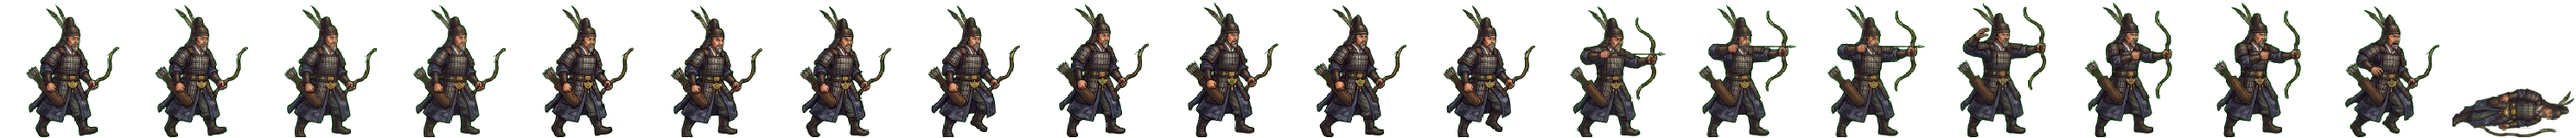
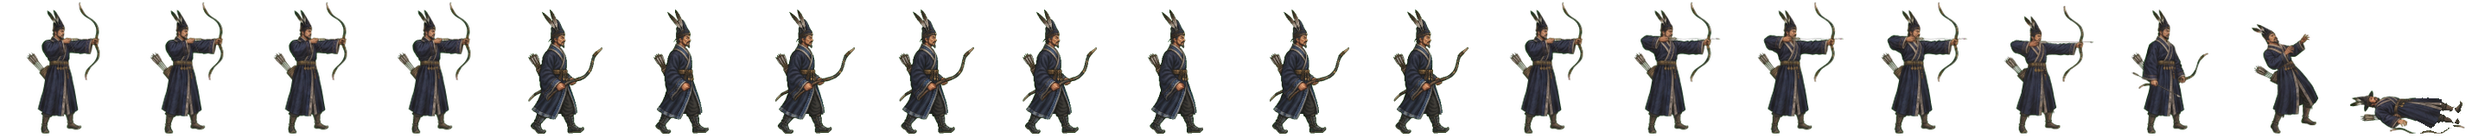
전투 띠 다시: 송양 초상대로 (깃털 꽂은 검은 관·남색 긴 두루마기 · 투구·갑옷을 벗김 · 활 당기기) (형 11-08)
Claude-Session: https://claude.ai/code/session_01TRiuNAG8xSjdmjCFpc8Rd5

Changed region(s): [[0.0, 0.0312, 1.0, 1.0]]

diff --git a/src/realm/data/art.ts b/src/realm/data/art.ts
@@ -485,7 +485,7 @@ export const GEN_ANIM: Readonly<Partial<Record<string, { ar: number; body: numbe
   eureum: { ar: 147 / 160, body: 0.907 }, // 11-04 제 띠 (u/0 · 마젠타 바탕 · 검은 관·염소수염·녹색 두루마기·가죽 갑옷·대쪽 두루마리 · 막기 컷은 칼이 휘어 빼고 · 내려베기 칼끝이 살짝 휨)
   ogan: { ar: 162 / 160, body: 0.907, bow: true }, // 11-04 제 띠 (u/0 · 높은 상투·턱수염·쇠 미늘·남색 옷·맥궁 · 첫 장은 병사 베옷을 베끼고 글자 꼬리표 → 「모든 컷 같은 옷」을 못 박아 새 대화로)
   damul: { ar: 147 / 160, body: 0.906, bow: true }, // 11-08 초상대로 다시 (형: 「투구 쓰고 원본과 다르다」 · 제미나이 걷기 4×2 + 동작 4×2 → 20컷 · assets_src/realm/gemini/generals2)
-  songyang: { ar: 149 / 160, body: 0.955, bow: true }, // 11-04 제 띠 (u/0 · 깃털 뾰족 고깔 관·희끗한 염소수염·무늬 남색 두루마기·금 드리개 · 모델이 칸 선을 그려 key-png 지울곳으로 걷음)
+  songyang: { ar: 143 / 160, body: 0.950, bow: true }, // 11-08 초상대로 다시 (형: 「투구 쓰고 원본과 다르다」 · 제미나이 걷기 4×2 + 동작 4×2 → 20컷 · assets_src/realm/gemini/generals2)
   maenun: { ar: 146 / 160, body: 0.955, bow: true }, // 11-04 제 띠 (u/0 · 꿩깃 검은 두건·붉은 두루마기·가죽 미늘·맥궁 · 골포국 살해 매눈)
   hyeopbo: { ar: 163 / 160, body: 0.887 }, // 11-04 제 띠 (u/0 · 검은 머리띠 상투·가는 콧수염·무늬 검은 도포·가죽 갑옷 · 곧은 고리자루 칼 — 첫 판은 휜 칼이라 버림)
   malgalgi: { ar: 165 / 160, body: 0.906 }, // 11-08 초상대로 다시 (형: 「투구 쓰고 원본과 다르다」 · 제미나이 걷기 4×2 + 동작 4×2 → 20컷 · assets_src/realm/gemini/generals2) · 전투 옷은 더 드러나게 (형 11-08)

diff --git a/src/ui/realm/battle-strikes.ts b/src/ui/realm/battle-strikes.ts
@@ -130,7 +130,7 @@ const RELEASE: Readonly<Record<string, [number, number, number]>> = {
   'gen-jumong': [14, 0.97, 0.34], 'gen-maenun': [14, .88, .34],
   'gen-ogan': [14, .87, .32], 'gen-haedal': [14, 0.91, 0.26],
   'gen-songbi': [14, 0.91, 0.24], 'gen-damul': [14, 0.98, 0.33],
-  'gen-songyang': [14, .86, .34],
+  'gen-songyang': [14, 0.91, 0.28],
 }
 // Extended weapon position in the contact cell, in each strip's native coordinate system.
 const CONTACT: Readonly<Record<string, [number, number, number]>> = {
